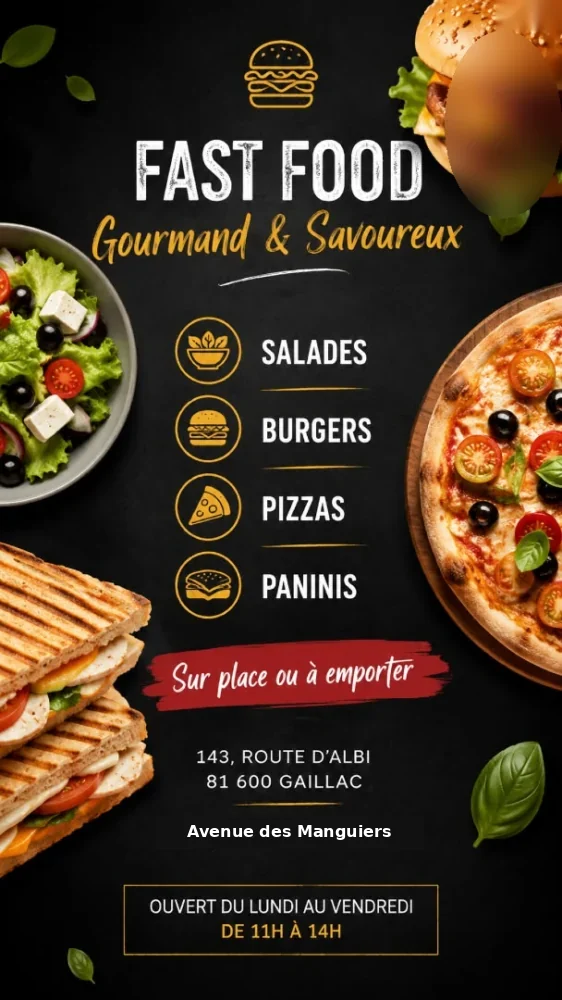
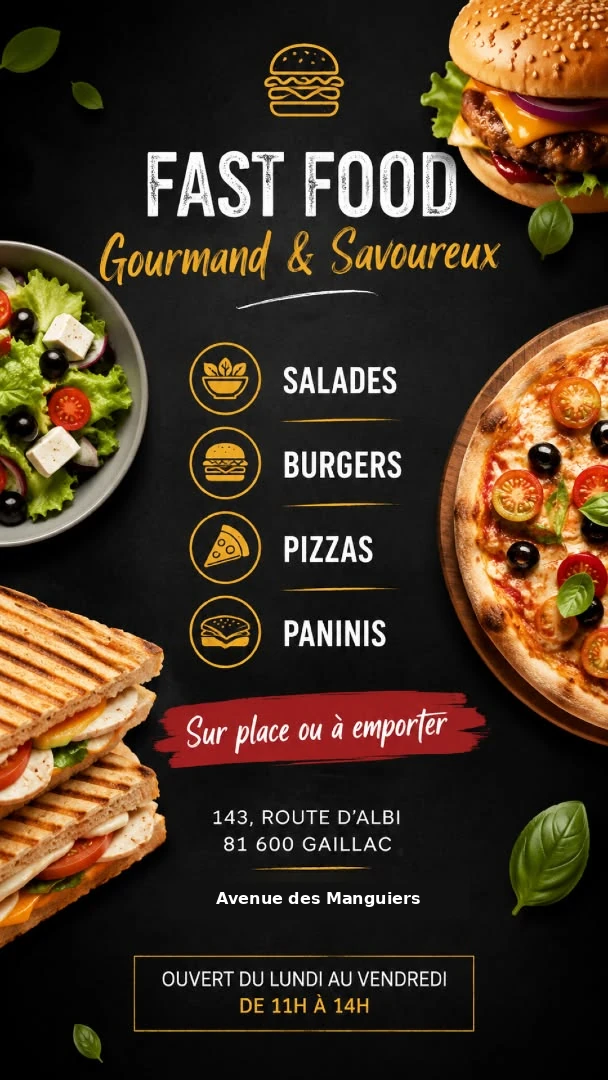
fix: show before-after before the showcase and keep the burger example sharp
The domain gallery now follows those two cards. Public face blur is explained on the privacy page and is not applied to the burger example.

Changed region(s): [[0.7865, 0.0, 1.0, 0.217], [0.3327, 0.806, 0.6957, 0.837]]

diff --git a/src/app/decouvrir/page.tsx b/src/app/decouvrir/page.tsx
@@ -7,24 +7,6 @@ import { VisualPoster } from "@/components/landing/visual-poster";
 import { HeroPosterLoop } from "@/components/landing/hero-poster-loop";
 import posters from "@/lib/exact-domain-posters.json";
 
-function ShowcaseStrip() {
-  return (
-    <div className="mt-4">
-      <p className="text-xs font-semibold uppercase tracking-[0.16em] text-slate-400">Showcase</p>
-      <div className="mt-3 flex gap-3 overflow-x-auto pb-2">
-        {posters.map((poster) => (
-          <img
-            key={poster.id}
-            src={poster.src}
-            alt={poster.label}
-            className="h-36 w-auto shrink-0 rounded-lg border border-slate-200 bg-white object-contain"
-          />
-        ))}
-      </div>
-    </div>
-  );
-}
-
 export const metadata: Metadata = {
   title: "Découvrir",
   description: "Le parcours FlyerMint : questions, direction artistique, affiche à télécharger.",
@@ -79,29 +61,10 @@ export default function DiscoverPage() {
         </div>
       </section>
 
-      <section id="creations" className="space-y-6">
-        <div className="flex flex-wrap items-end justify-between gap-3">
-          <div>
-            <p className="text-xs font-semibold uppercase tracking-[0.2em] text-[#6D28D9]">Showcase</p>
-            <h2 className="mt-2 text-3xl font-extrabold tracking-tight">Une affiche exacte par domaine.</h2>
-          </div>
-          <Link href="/creations" className="text-sm font-semibold text-[#6D28D9] hover:underline">
-            Toute la galerie
-          </Link>
-        </div>
-        <div className="grid grid-cols-2 gap-4 md:grid-cols-4">
-          {posters.map((poster) => (
-            <VisualPoster key={poster.id} title={poster.label} subtitle={poster.domaine} imageSrc={poster.src} />
-          ))}
-        </div>
-        <p className="text-sm text-slate-500">Chaque visuel reprend la référence de son dossier, sans nom, numéro ni date réelle.</p>
-      </section>
-
       <section className="grid gap-4 lg:grid-cols-2">
         <article className="card p-6">
           <p className="text-xs font-semibold uppercase tracking-[0.18em] text-[#6D28D9]">Avant / Après</p>
           <h3 className="mt-2 text-2xl font-extrabold">D’un message brut à un visuel qui vend</h3>
-          <ShowcaseStrip />
           <div className="mt-6 grid gap-4 sm:grid-cols-2">
             <div className="rounded-2xl border border-dashed border-slate-200 bg-slate-50 p-4">
               <p className="text-[11px] font-semibold uppercase tracking-wide text-slate-400">Avant</p>
@@ -121,7 +84,6 @@ export default function DiscoverPage() {
         <article className="card p-6">
           <p className="text-xs font-semibold uppercase tracking-[0.18em] text-[#10B981]">Questionnaire</p>
           <h3 className="mt-2 text-2xl font-extrabold">Tu réponds. On compose.</h3>
-          <ShowcaseStrip />
           <div className="mt-6 space-y-3">
             {[
               "Quel est ton domaine ?",
@@ -142,6 +104,24 @@ export default function DiscoverPage() {
             ))}
           </div>
         </article>
+      </section>
+
+      <section id="creations" className="space-y-6">
+        <div className="flex flex-wrap items-end justify-between gap-3">
+          <div>
+            <p className="text-xs font-semibold uppercase tracking-[0.2em] text-[#6D28D9]">Showcase</p>
+            <h2 className="mt-2 text-3xl font-extrabold tracking-tight">Une affiche exacte par domaine.</h2>
+          </div>
+          <Link href="/creations" className="text-sm font-semibold text-[#6D28D9] hover:underline">
+            Toute la galerie
+          </Link>
+        </div>
+        <div className="grid grid-cols-2 gap-4 md:grid-cols-4">
+          {posters.map((poster) => (
+            <VisualPoster key={poster.id} title={poster.label} subtitle={poster.domaine} imageSrc={poster.src} />
+          ))}
+        </div>
+        <p className="text-sm text-slate-500">Chaque visuel reprend la référence de son dossier, sans nom, numéro ni date réelle. Les visages de ces exemples sont floutés, comme expliqué dans la confidentialité.</p>
       </section>
 
       <section id="comment-ca-marche">

diff --git a/src/app/confidentialite/page.tsx b/src/app/confidentialite/page.tsx
@@ -43,6 +43,13 @@ export default function PrivacyPage() {
       </section>
 
       <section>
+        <h2 className="text-2xl font-bold">Exemples publics</h2>
+        <p className="mt-3 text-slate-700">
+          Les affiches de la galerie Créations et du showcase viennent de références déjà publiées. Les visages y sont floutés, et les noms, numéros, dates et lieux réels sont retirés, pour ne pas remettre en ligne l’identité des personnes visibles sur ces sources. Ce flou ne s’applique pas à une affiche qu’un client génère : sa photo reste nette, et seuls les textes qu’il fournit changent.
+        </p>
+      </section>
+
+      <section>
         <h2 className="text-2xl font-bold">Finalités</h2>
         <p className="mt-3 text-slate-700">
           Fournir le compte, composer et générer l’affiche, tenir le ledger de Mints, confirmer un paiement, envoyer les e-mails de paiement, de génération et de support, sécuriser l’accès, prévenir les abus, et permettre à un administrateur autorisé de gérer le service.
